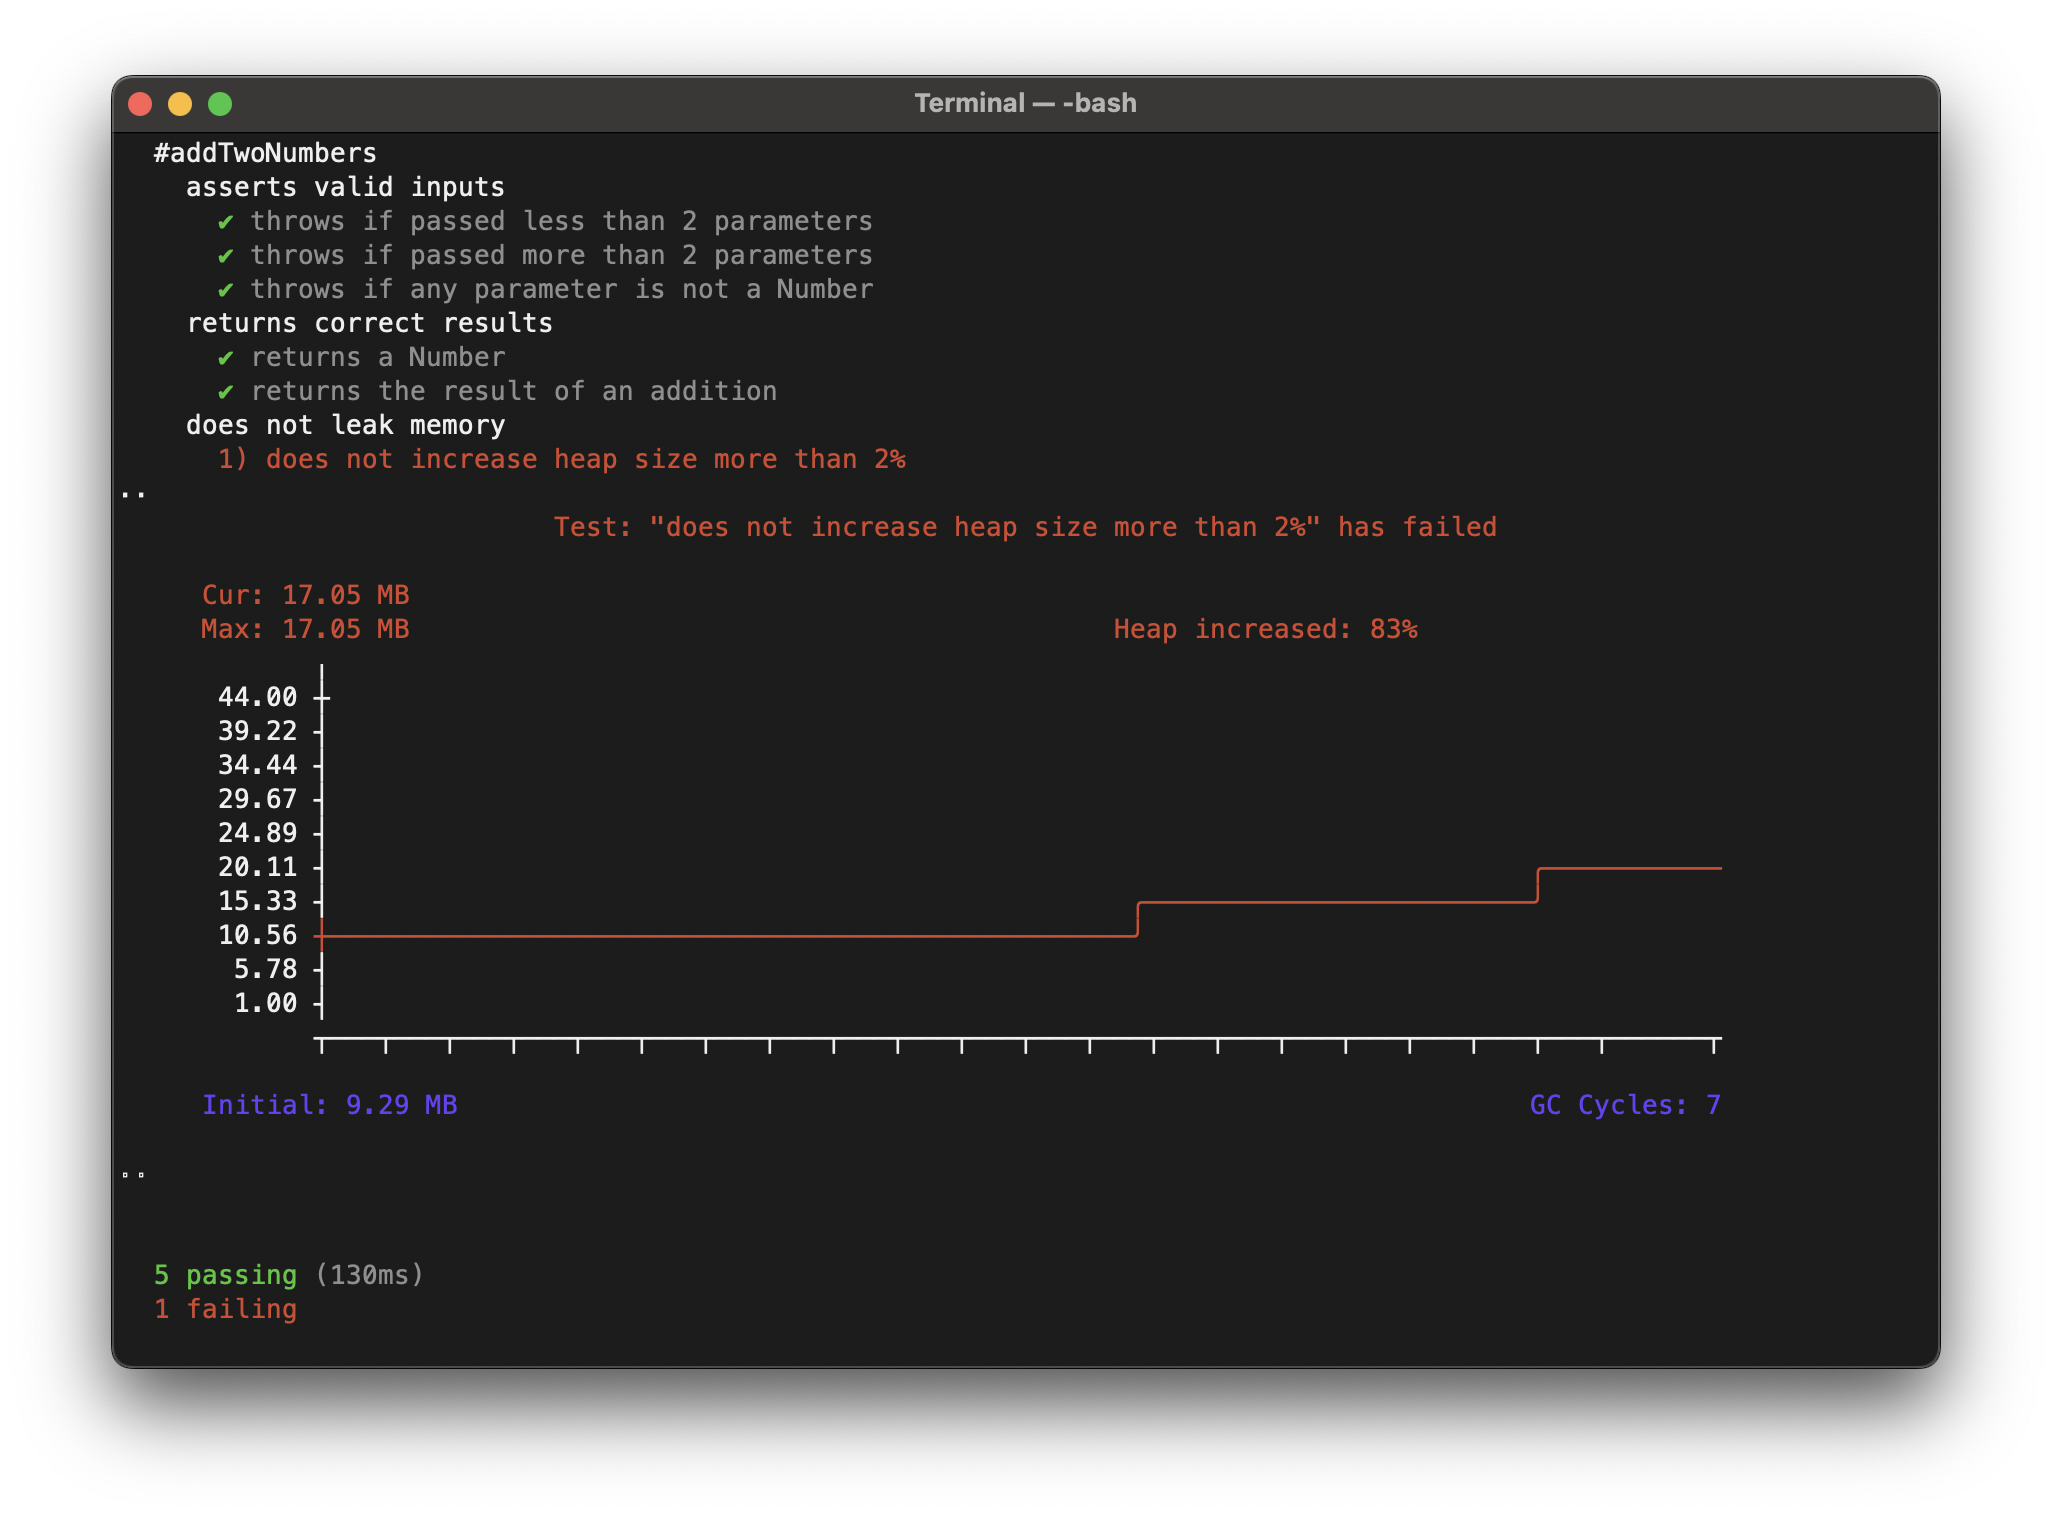
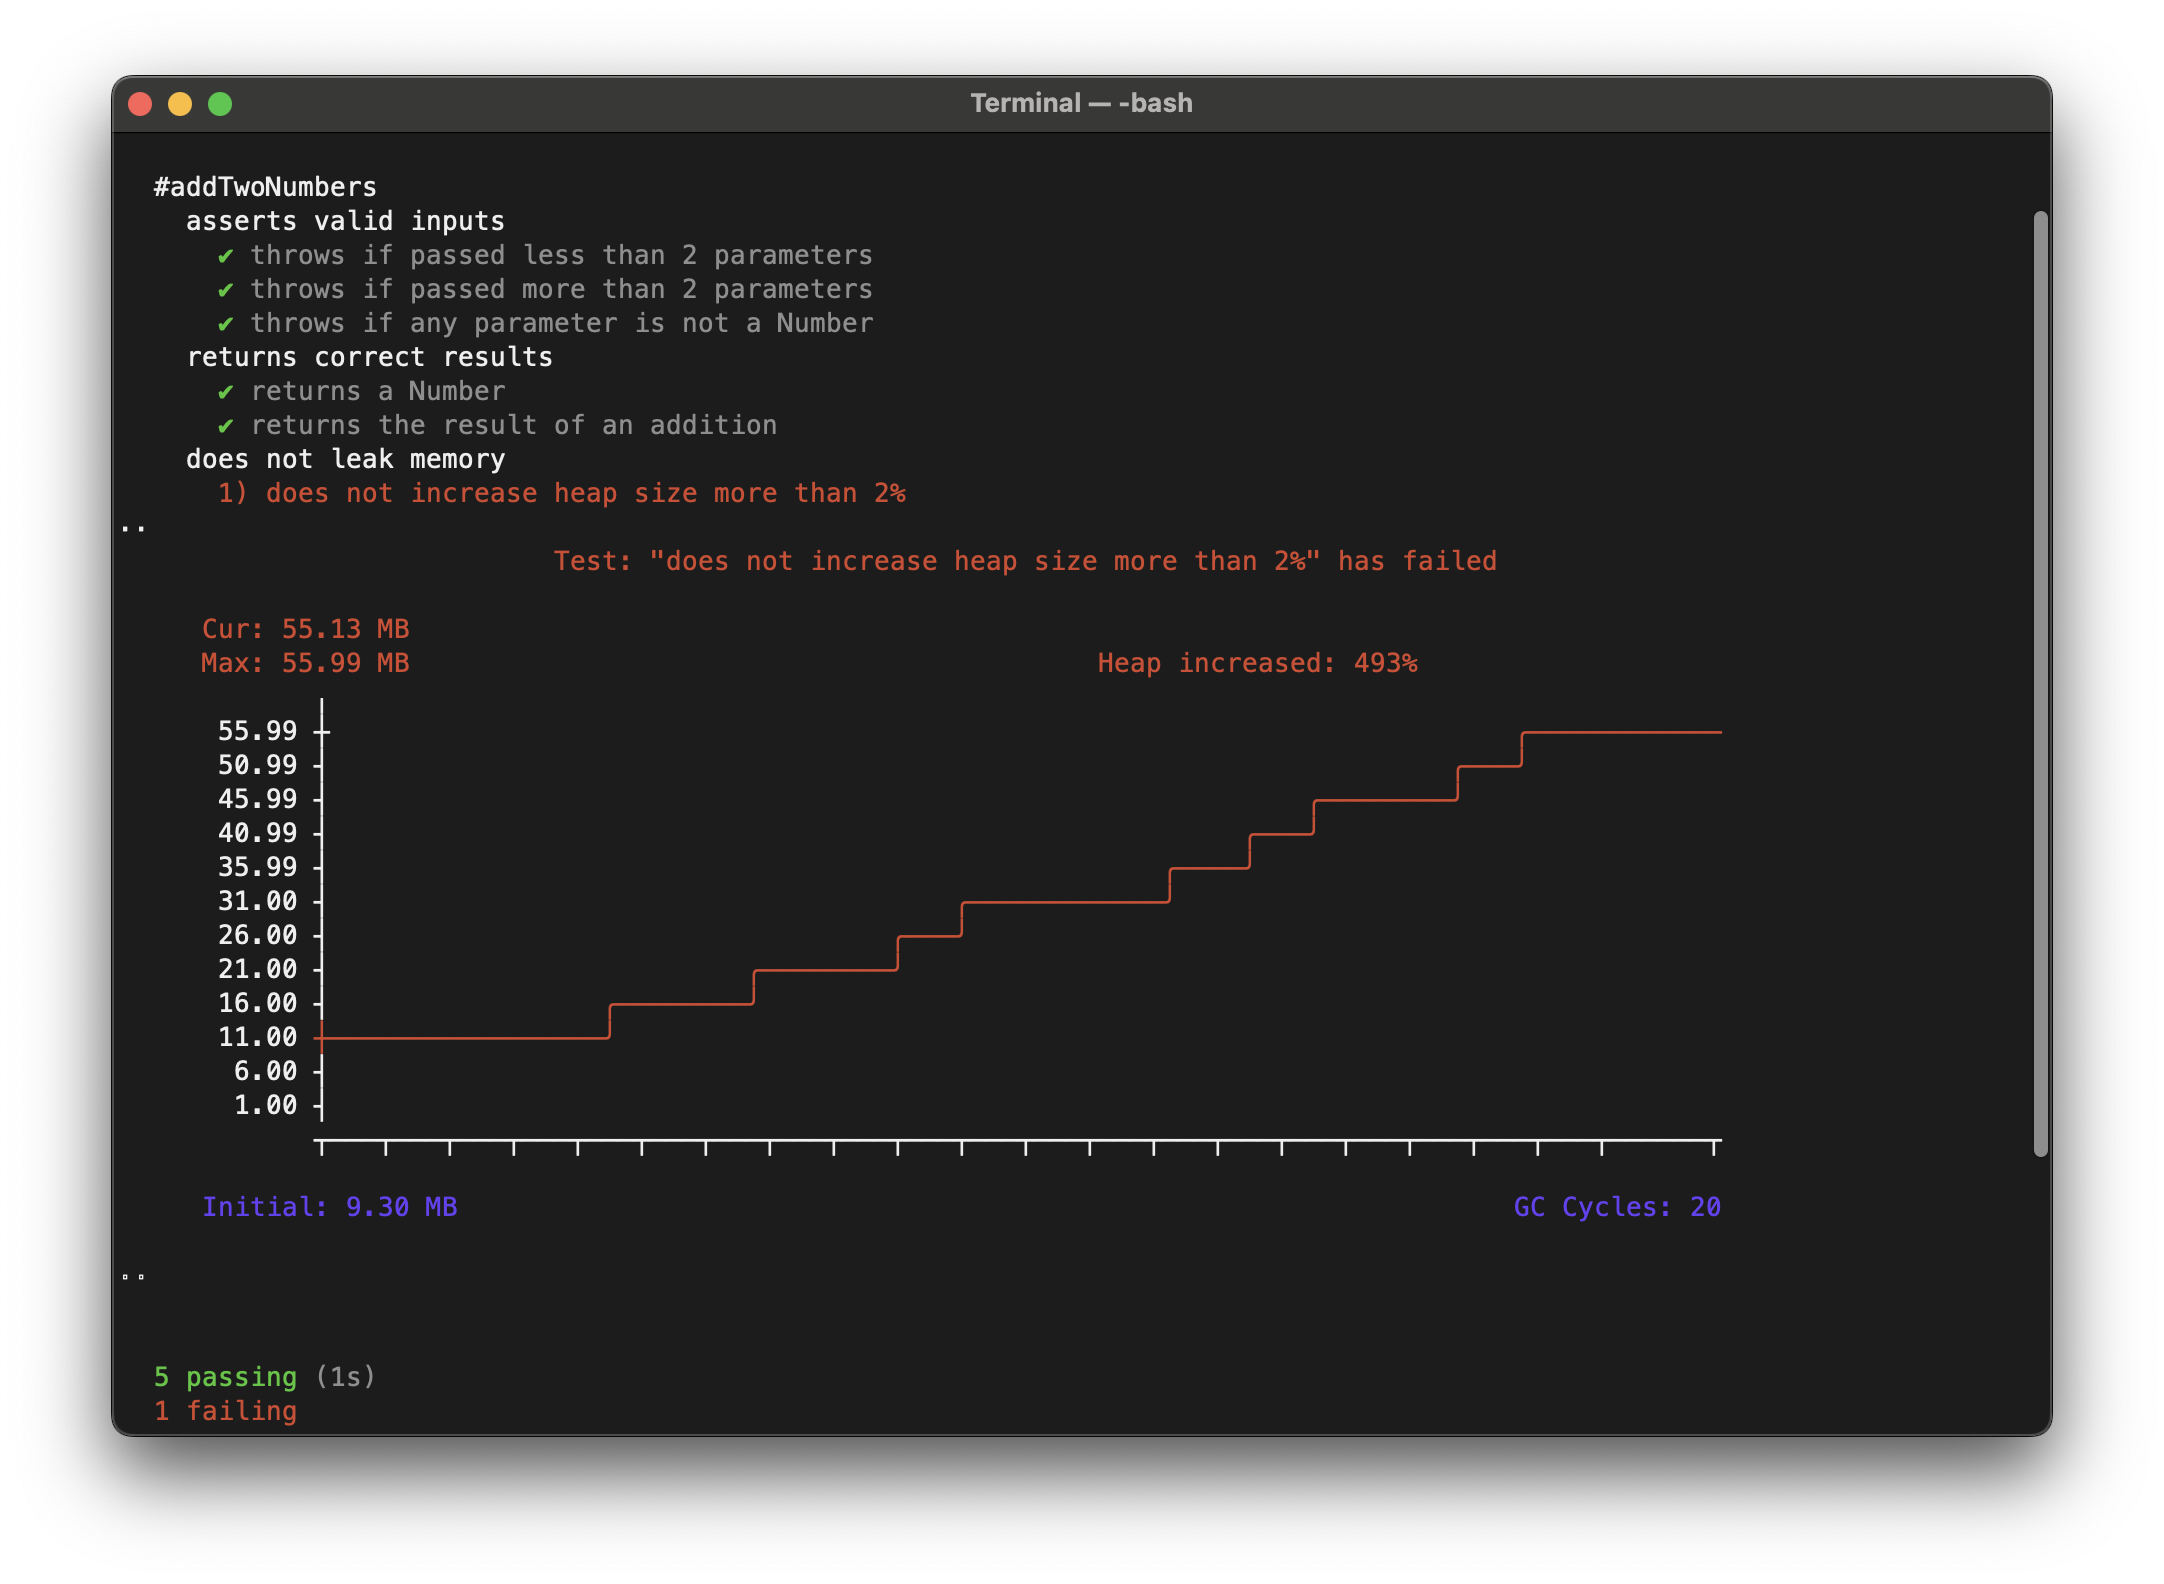
new main demo

diff --git a/.github/assets/demo-test.spec.js b/.github/assets/demo-test.spec.js
@@ -2,20 +2,20 @@
 // Run with `npx mocha mocha.spec.js`
 
 import { expect } from 'chai'
-import Heapstats from '../../../../index.js'
+import Heapstats from '../../index.js'
 
 // Same as above but leaky
 global.leak = []
 const addTwoNumbersLeaky = (a, b) => new Promise(resolve => {
   const timer = setInterval(() =>
     global.leak.push(
-      JSON.stringify([Math.random().toString().repeat(5000)])
+      JSON.stringify([Math.random().toString().repeat(3000)])
     ), 1)
 
   setTimeout(() => {
     clearInterval(timer)
     resolve(a + b)
-  }, 100)
+  }, 1000)
 })
 
 describe('#addTwoNumbers', function() {
